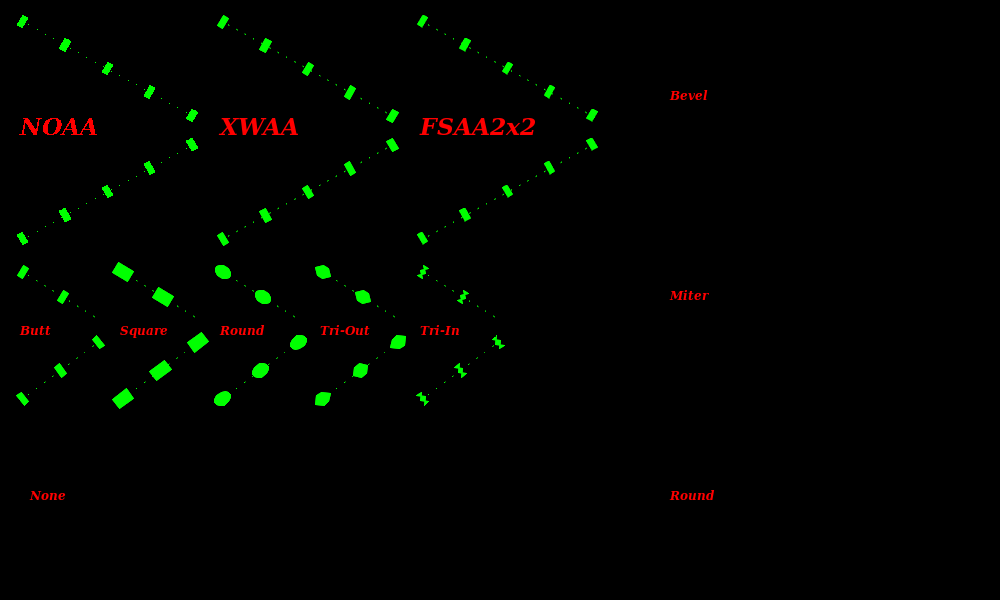
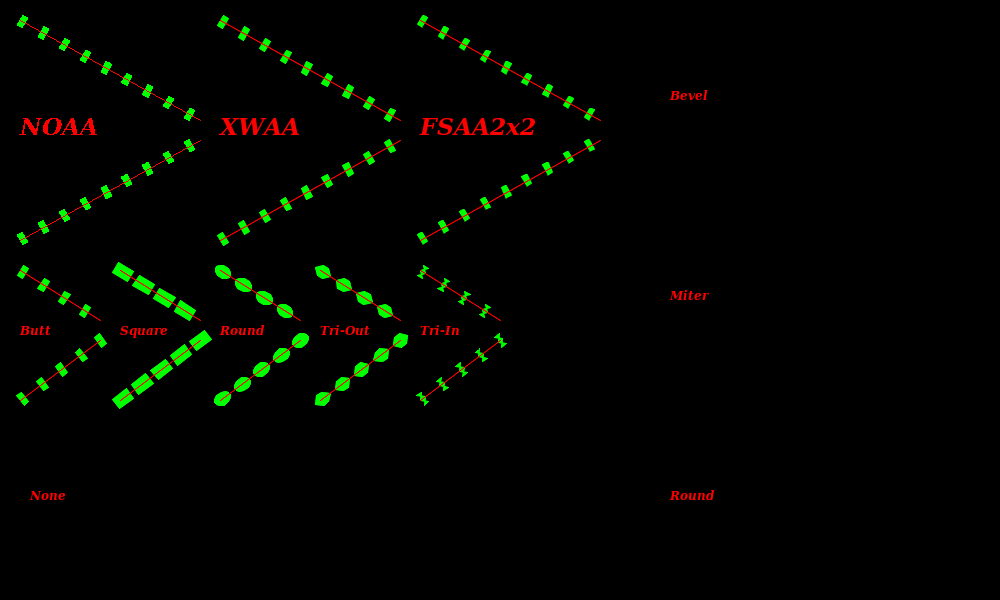
Working on patterned thick line

diff --git a/src/Pt-Gfx/ImagePainter2.cpp b/src/Pt-Gfx/ImagePainter2.cpp
@@ -473,10 +473,16 @@ void ImagePainter2::drawLine( const PointF& from, const PointF& to )
     convertPointRound(points, pointsF.data(), pointsF.size());
     _rasterizer->strokePolygonSeparate(points.data(), points.size());
 
-    // ### JUST FOR DEBUGGING ###
+#if 1
+    // ### NOTE: Just for testing patterned thick lines ###
+    if(_rasterizer->pen().style() == Pen::Solid) return;
+    const Pen pen = _rasterizer->pen();
     const Point a( (Pt::int32_t) from.x(), (Pt::int32_t) from.y() );
     const Point b( (Pt::int32_t) to  .x(), (Pt::int32_t) to  .y() );
+    _rasterizer->setPen(Color::fromRgb8(255, 0, 0));
     _rasterizer->strokeOnePixelLine(a, b, 0);
+    _rasterizer->setPen(pen);
+#endif
 }
 
 void ImagePainter2::drawRect( const RectF& rect )
@@ -1367,7 +1373,7 @@ void ImagePainter2::generatePatternedLineSegment(std::vector<PointF>& dst, float
     // Get the pattern buffer and calculate the number of "pattern" segments
     const Pt::uint8_t* pBuff = _rasterizer->patternBufferMP64();
     const float        lLen  = Gfx::Math::fastSqrt( (x2 - x1) * (x2 - x1) + (y2 - y1) * (y2 - y1) );
-    const size_t       nSegs = round(lLen / wh);
+    const size_t       nSegs = round(2.0f * lLen / wh);
     const float        xInc  = (x2 - x1) / nSegs;
     const float        yInc  = (y2 - y1) / nSegs;
 
@@ -1389,8 +1395,15 @@ void ImagePainter2::generatePatternedLineSegment(std::vector<PointF>& dst, float
             y1 = ys;
         }
         else if(draw) {
-            x2 = xs;
-            y2 = ys;
+            switch(_rasterizer->pen().capStyle()) {
+                case Pen::SquareCap        :
+                case Pen::RoundCap         :
+                case Pen::TriangularOutCap :
+                case Pen::TriangularInCap  :
+                default                    : break;
+            }
+
+            x2 = xs + xInc; y2 = ys + yInc;
         }
         prvPat = curPat;
         // Update the coordinates
